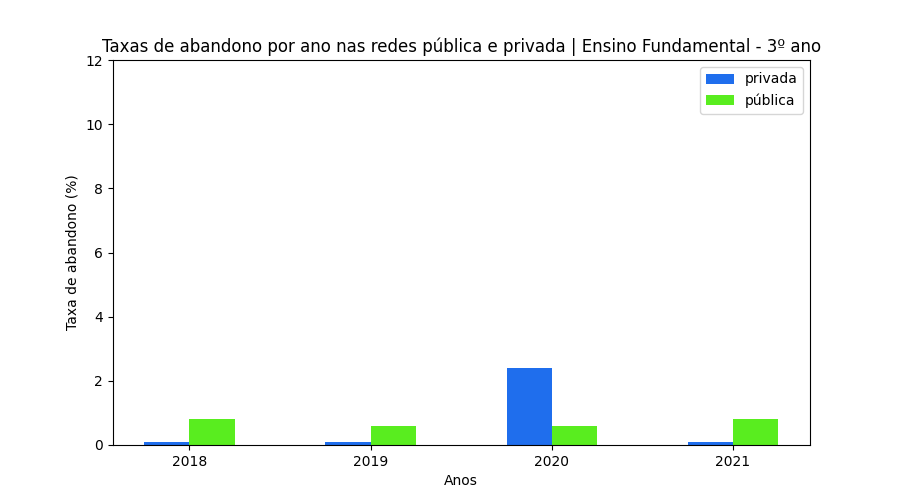
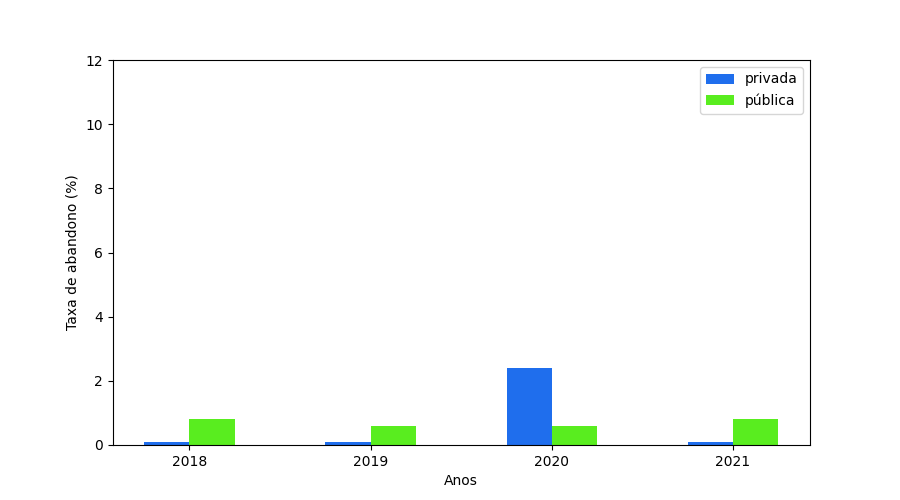
Refatoração e retirada do título dos gráficos

Changed region(s): [[0.1244, 0.06, 0.9022, 0.12]]

diff --git a/src/analises.py b/src/analises.py
@@ -34,7 +34,6 @@ def gerar_tabela_diferencas_taxas_aprovacao():
             resultado_2021 = diferenca_taxas
 
     plt.box(on=None)
-    plt.suptitle('Diferença entre as taxas de aprovação das redes pública e privada no Ensino Médio', fontsize=10)
     the_table = plt.table(
         cellText=[["{0:.2f}".format(resultado_2021), np.mean(resultados_outros_anos)]],
         colLabels=['2021', 'Média dos anos 2017 e 2019'],
@@ -50,7 +49,7 @@ def gerar_tabela_diferencas_taxas_aprovacao():
     the_table.set_fontsize(12)
     the_table.scale(1.5, 2.3)
 
-    plt.savefig(f'{DIR_GRAFICOS_TABELA}/diferencas')
+    plt.savefig(f'{DIR_GRAFICOS_TABELA}/diferencas_taxas_aprovacao')
     plt.clf()
 
 def gerar_tabela_media_taxas_aprovacao():
@@ -80,7 +79,6 @@ def gerar_tabela_media_taxas_aprovacao():
 
 
     plt.box(on=None)
-    plt.suptitle('Média das taxas de aprovação das redes pública e privada por ano')
     the_table = plt.table(
         cellText=[["{0:.2f}".format(media)] for media in medias],
         colLabels=['Média (%)'],
@@ -97,33 +95,33 @@ def gerar_tabela_media_taxas_aprovacao():
     the_table.set_fontsize(12)
 
     the_table.scale(1.5, 2.3)
-    plt.savefig(f'{DIR_GRAFICOS_TABELA}/medias')
+    plt.savefig(f'{DIR_GRAFICOS_TABELA}/medias_taxas_aprovacao')
 
 def gerar_graficos_taxa_abandono():
     if not os.path.exists(PATH_INDICADORES_BRASIL_TRATADO):
         baixar_dados_indicadores_brasil()
 
     df = pd.read_csv(PATH_INDICADORES_BRASIL_TRATADO)
-    taxas_abandono = {
-        'taxa_abandono_ef':'Ensino Fundamental', 
-        'taxa_abandono_ef_anos_iniciais':'Ensino Fundamental Anos Iniciais', 
-        'taxa_abandono_ef_anos_finais':'Ensino Fundamental Anos Finais',
-        'taxa_abandono_ef_1_ano':'Ensino Fundamental - 1º ano', 
-        'taxa_abandono_ef_2_ano':'Ensino Fundamental - 2º ano', 
-        'taxa_abandono_ef_3_ano':'Ensino Fundamental - 3º ano',
-        'taxa_abandono_ef_4_ano':'Ensino Fundamental - 4º ano', 
-        'taxa_abandono_ef_5_ano':'Ensino Fundamental - 5º ano' ,
-        'taxa_abandono_ef_6_ano':'Ensino Fundamental - 6º ano',
-        'taxa_abandono_ef_7_ano':'Ensino Fundamental - 7º ano', 
-        'taxa_abandono_ef_8_ano':'Ensino Fundamental - 8º ano', 
-        'taxa_abandono_ef_9_ano':'Ensino Fundamental - 9º ano',
-        'taxa_abandono_em':'Ensino Médio', 
-        'taxa_abandono_em_1_ano':'Ensino Médio - 1º ano',
-        'taxa_abandono_em_2_ano':'Ensino Médio - 2º ano',
-        'taxa_abandono_em_3_ano':'Ensino Médio - 3º ano', 
-        'taxa_abandono_em_4_ano':'Ensino Médio - 4º ano' , 
-        'taxa_abandono_em_nao_seriado':'Ensino Médio Não seriado'
-    }
+    taxas_abandono = [
+        'taxa_abandono_ef', 
+        'taxa_abandono_ef_anos_iniciais', 
+        'taxa_abandono_ef_anos_finais',
+        'taxa_abandono_ef_1_ano', 
+        'taxa_abandono_ef_2_ano', 
+        'taxa_abandono_ef_3_ano',
+        'taxa_abandono_ef_4_ano', 
+        'taxa_abandono_ef_5_ano',
+        'taxa_abandono_ef_6_ano',
+        'taxa_abandono_ef_7_ano', 
+        'taxa_abandono_ef_8_ano', 
+        'taxa_abandono_ef_9_ano',
+        'taxa_abandono_em', 
+        'taxa_abandono_em_1_ano',
+        'taxa_abandono_em_2_ano',
+        'taxa_abandono_em_3_ano', 
+        'taxa_abandono_em_4_ano', 
+        'taxa_abandono_em_nao_seriado'
+    ]
 
     anos = [2018,2019,2020,2021]
     barWidth = 0.25
@@ -133,7 +131,7 @@ def gerar_graficos_taxa_abandono():
         by_label = dict(zip(labels, handles))
         figure.legend(by_label.values(), by_label.keys())
 
-    for taxa, label in taxas_abandono.items():
+    for taxa in taxas_abandono:
         posicoes = []
         plt.figure(figsize=(9, 5))
         for i, ano in enumerate(anos):
@@ -154,11 +152,9 @@ def gerar_graficos_taxa_abandono():
             plt.bar(posicao_publica, dados_abandono_publica, color= '#59ed1f', width=barWidth, label='pública')
 
             plt.xlabel('Anos')
-
         
         plt.xticks(posicoes, anos)
         plt.ylabel('Taxa de abandono (%)')
-        plt.title(f'Taxas de abandono por ano nas redes pública e privada | {label}')
         plt.ylim((0,12))
 
         legend_without_duplicate_labels(plt)
@@ -173,10 +169,7 @@ def gerar_graficos_reprovacao_horas():
 
     anos = [2018,2019,2020,2021]
     ufs = df['sigla_uf'].unique()
-    series = {
-        'ef':'Ensino Fundamental', 
-        'em': 'Ensino Médio'
-    }
+    series = ['ef', 'em']
     cores = [
         '#FF0000',
         '#00FF00',
@@ -227,15 +220,14 @@ def gerar_graficos_reprovacao_horas():
             return None
 
     for ano in anos:
-        for serie_key, serie in series.items(): 
-
+        for serie in series: 
             plt.figure(figsize=(30, 10))
             
             for i,uf in enumerate(ufs):
                 filtro = (df['ano'] == ano) & (df['sigla_uf'] == uf)
                 df_filtrado = df[filtro]
-                taxa_reprovacao = df_filtrado[f'taxa_reprovacao_{serie_key}']
-                had = df_filtrado[f'had_{serie_key}']
+                taxa_reprovacao = df_filtrado[f'taxa_reprovacao_{serie}']
+                had = df_filtrado[f'had_{serie}']
 
                 plt.scatter(taxa_reprovacao, had, color=cores[i], s = 1000)
                 plt.annotate(
@@ -254,7 +246,6 @@ def gerar_graficos_reprovacao_horas():
             plt.yticks(fontsize=15)
             plt.ylim((3,8))
             plt.xlim((0,22))
-            plt.title(f'Gráfico de dispersão | {serie} - {ano}', fontsize=30)
             plt.xlabel('Taxa de reprovação (%)', fontsize=20) 
             plt.ylabel('Média de Horas-Aula diária', fontsize=20) 
             plt.legend(
@@ -266,5 +257,5 @@ def gerar_graficos_reprovacao_horas():
                 bbox_to_anchor=(1.1, 1.1)
             )
             
-            plt.savefig(f'{DIR_GRAFICOS_DISPERSAO}/reprovacao_x_horas_aula_{serie_key}_{ano}')
+            plt.savefig(f'{DIR_GRAFICOS_DISPERSAO}/reprovacao_x_horas_aula_{serie}_{ano}')
             plt.clf()
